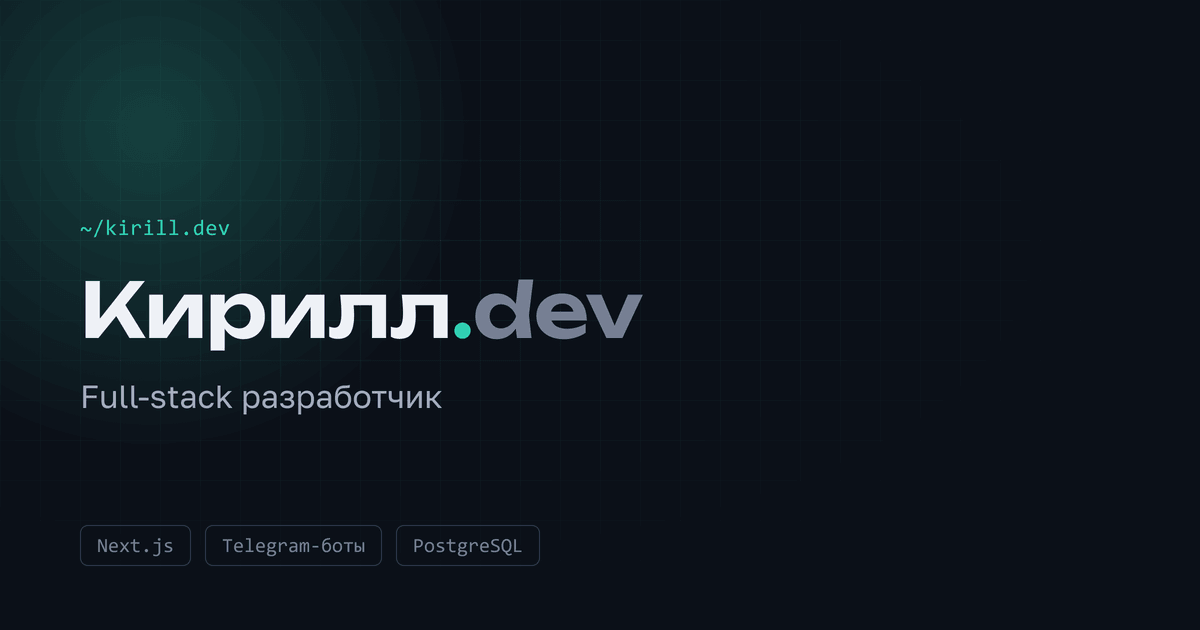
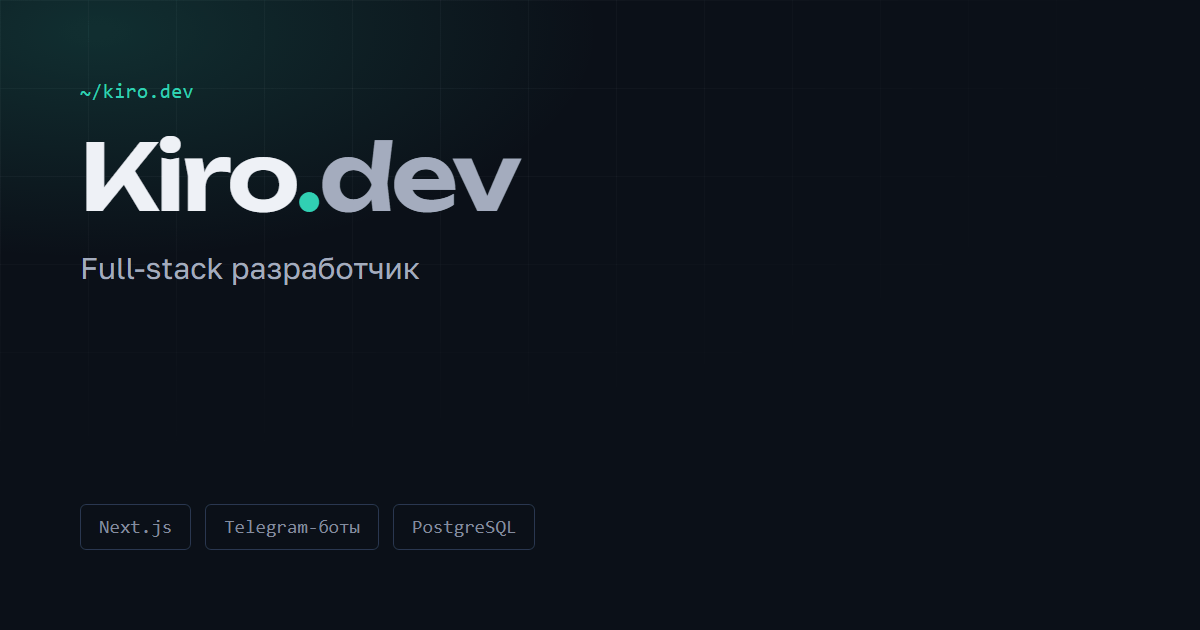
Бренд: словознак Кирилл.dev -> Kiro.dev
Имя человека и бренд разведены: site.name (Кирилл) уходит в JSON-LD Person
и в SEO-заголовок главной, site.brand/brandName (Kiro.dev) — в логотип,
футер, og:site_name, шаблон title подстраниц и в название услуги.

Перерисована og-image.png: словознак был впечатан в неё графикой. Скрипт
генерации теперь лежит в репозитории (npm run make:og) и берёт бренд из
site.ts — прошлый был одноразовым и не сохранился.

diff --git a/src/lib/site.ts b/src/lib/site.ts
@@ -4,7 +4,15 @@
  */
 
 export const site = {
+  // Имя человека и словознак бренда — разные сущности и расходятся намеренно:
+  // `name` уходит в JSON-LD Person и в SEO-заголовки (по имени ищут человека),
+  // `brand`/`brandName` — в логотип шапки, футер, og:site_name и в название
+  // услуги. Логотип собирается как {brand}.{brandTld}, чтобы точка-акцент
+  // рисовалась отдельным span'ом и не дублировалась строкой в двух местах.
   name: "Кирилл",
+  brand: "Kiro",
+  brandTld: "dev",
+  brandName: "Kiro.dev",
   role: "Full-stack разработчик",
   // Канонический домен — для metadataBase, og:url, sitemap.xml, JSON-LD.
   // При подключении кастомного домена достаточно задать NEXT_PUBLIC_SITE_URL
@@ -28,7 +36,7 @@ export const site = {
   // openGraph.siteName/locale — Next не подмешивает их из layout.tsx, если
   // страница объявляет свой openGraph (объект заменяется целиком), поэтому
   // страница кейса берёт их отсюда явно.
-  ogSiteName: "Кирилл.dev",
+  ogSiteName: "Kiro.dev",
   ogLocale: "ru_RU",
 } as const;
 

diff --git a/src/app/page.tsx b/src/app/page.tsx
@@ -11,6 +11,8 @@ import { JsonLd } from "@/components/JsonLd";
 import { site, services } from "@/lib/site";
 
 // Person — сущность (для карточки в поиске и связки с Telegram как соц-профилем).
+// Имя человека здесь остаётся русским: Kiro.dev — словознак бренда, он уходит в
+// alternateName и в название услуги ниже.
 // ProfessionalService — что продаём и по каким ценам (services из lib/site.ts).
 const homeJsonLd = {
   "@context": "https://schema.org",
@@ -19,6 +21,7 @@ const homeJsonLd = {
       "@type": "Person",
       "@id": `${site.url}/#person`,
       name: site.name,
+      alternateName: site.brandName,
       jobTitle: site.role,
       url: site.url,
       sameAs: [site.telegramUrl],
@@ -34,7 +37,7 @@ const homeJsonLd = {
     {
       "@type": "ProfessionalService",
       "@id": `${site.url}/#service`,
-      name: `${site.name} — full-stack разработка`,
+      name: `${site.brandName} — full-stack разработка`,
       description:
         "Разработка сайтов и Telegram-ботов под задачу бизнеса: от лендинга до комплексного проекта с базой данных.",
       url: site.url,

diff --git a/src/app/layout.tsx b/src/app/layout.tsx
@@ -10,8 +10,11 @@ const homeDescription =
 export const metadata: Metadata = {
   metadataBase: new URL(site.url),
   title: {
+    // В шаблоне подстраниц стоит словознак, а не имя: «Кейс MAISON · Kiro.dev».
+    // Имя человека остаётся в homeTitle — по нему ищут в поиске, и главная его
+    // держит целиком.
     default: homeTitle,
-    template: `%s · ${site.name} — full-stack разработчик`,
+    template: `%s · ${site.brandName} — full-stack разработчик`,
   },
   description: homeDescription,
   openGraph: {

diff --git a/src/components/case/CaseHeader.tsx b/src/components/case/CaseHeader.tsx
@@ -12,9 +12,9 @@ export function CaseHeader() {
     <header className="sticky top-0 z-40 border-b border-line/70 bg-bg/80 backdrop-blur-md">
       <div className="mx-auto flex h-16 max-w-[1100px] items-center justify-between gap-4 px-5 sm:px-8">
         <Link href="/" className="font-mono text-sm tracking-tight text-fg">
-          {site.name}
+          {site.brand}
           <span className="text-accent">.</span>
-          <span className="text-muted">dev</span>
+          <span className="text-muted">{site.brandTld}</span>
         </Link>
         <div className="flex items-center gap-5 sm:gap-6">
           <Link

diff --git a/src/components/SiteFooter.tsx b/src/components/SiteFooter.tsx
@@ -27,8 +27,9 @@ export function SiteFooter() {
 
         <div className="mt-16 flex flex-col gap-3 border-t border-line pt-8 font-mono text-xs text-muted sm:flex-row sm:items-center sm:justify-between">
           <span>
-            {site.name}
-            <span className="text-accent">.</span>dev, {site.role}
+            {site.brand}
+            <span className="text-accent">.</span>
+            {site.brandTld}, {site.role}
           </span>
           <div className="flex items-center gap-4">
             <span className="flex items-center gap-2 text-fg-dim">

diff --git a/src/components/SiteHeader.tsx b/src/components/SiteHeader.tsx
@@ -58,9 +58,9 @@ export function SiteHeader() {
     <header className="sticky top-0 z-40 border-b border-line/70 bg-bg/80 backdrop-blur-md">
       <div className="mx-auto flex h-16 max-w-[1200px] items-center justify-between gap-4 px-5 sm:px-8">
         <a href="#top" className="font-mono text-sm tracking-tight text-fg">
-          {site.name}
+          {site.brand}
           <span className="text-accent">.</span>
-          <span className="text-muted">dev</span>
+          <span className="text-muted">{site.brandTld}</span>
         </a>
 
         <nav

diff --git a/src/components/case/CaseLayout.tsx b/src/components/case/CaseLayout.tsx
@@ -255,8 +255,9 @@ export function CaseLayout({ content }: { content: CaseContent }) {
                   на связи
                 </span>
                 <span>
-                  {site.name}
-                  <span className="text-accent">.</span>dev
+                  {site.brand}
+                  <span className="text-accent">.</span>
+                  {site.brandTld}
                 </span>
                 <span>© {year}</span>
               </div>

diff --git a/src/app/not-found.tsx b/src/app/not-found.tsx
@@ -15,7 +15,7 @@ export const metadata: Metadata = {
   twitter: { card: "summary", title, description },
 };
 
-const prompt = `${site.name.toLowerCase()}@site`;
+const prompt = `${site.brand.toLowerCase()}@site`;
 
 /**
  * 404 в терминальной стилизации — продолжает мотив SectionPath/hero-caret
